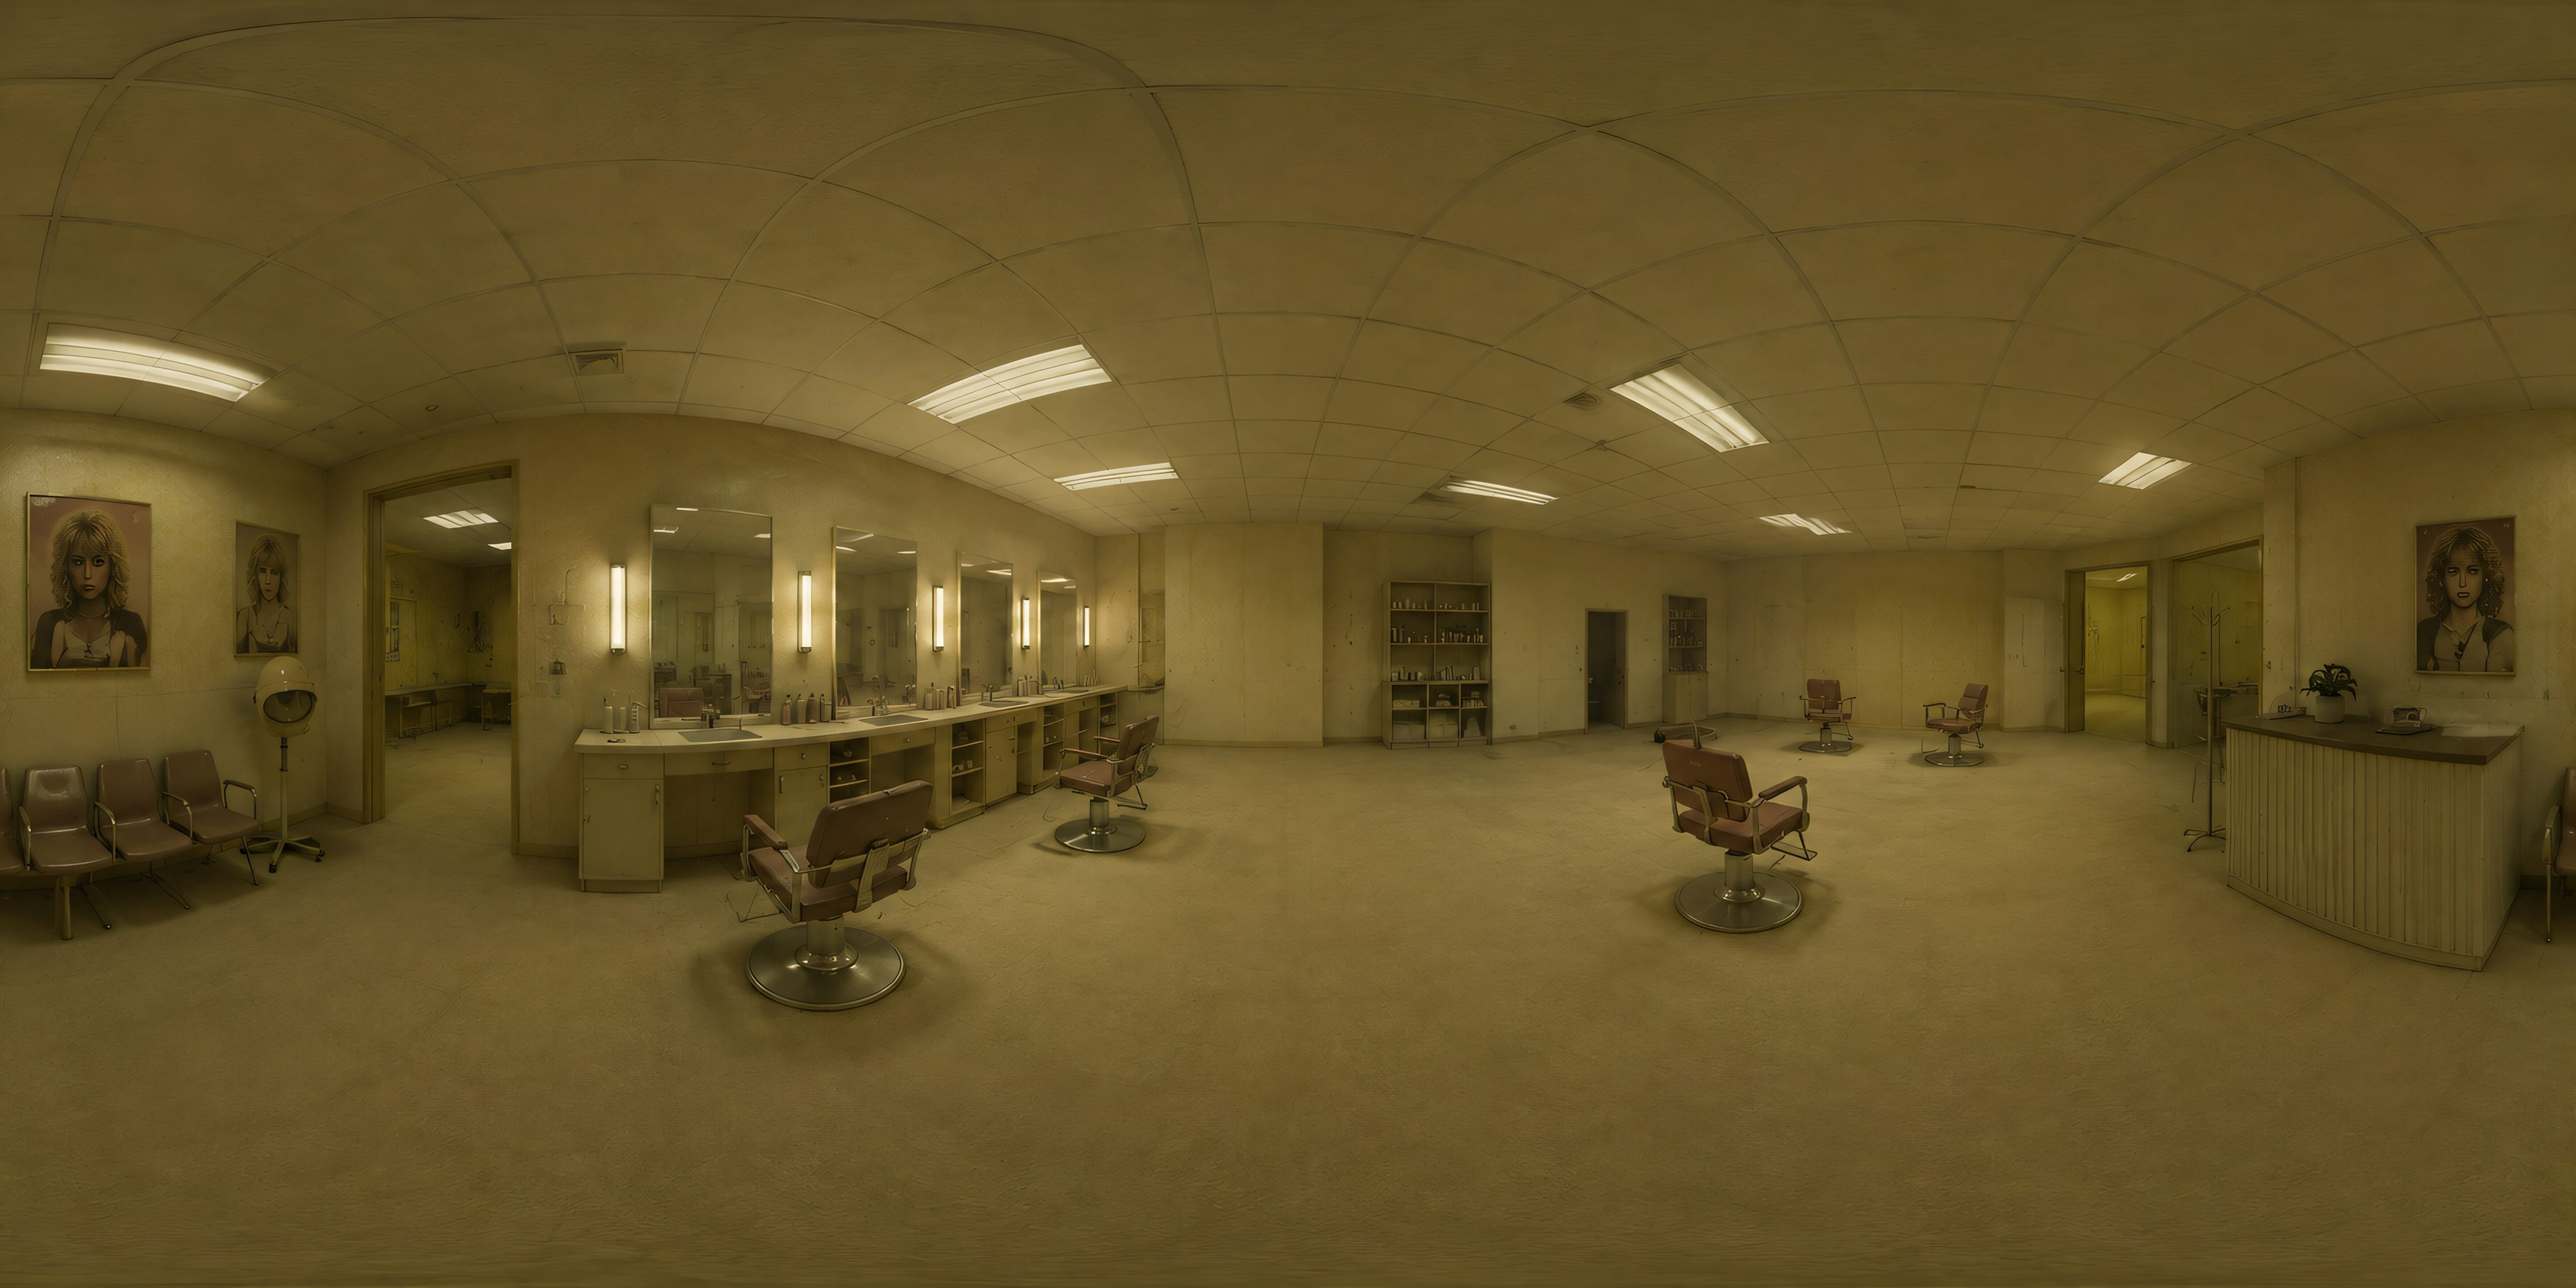
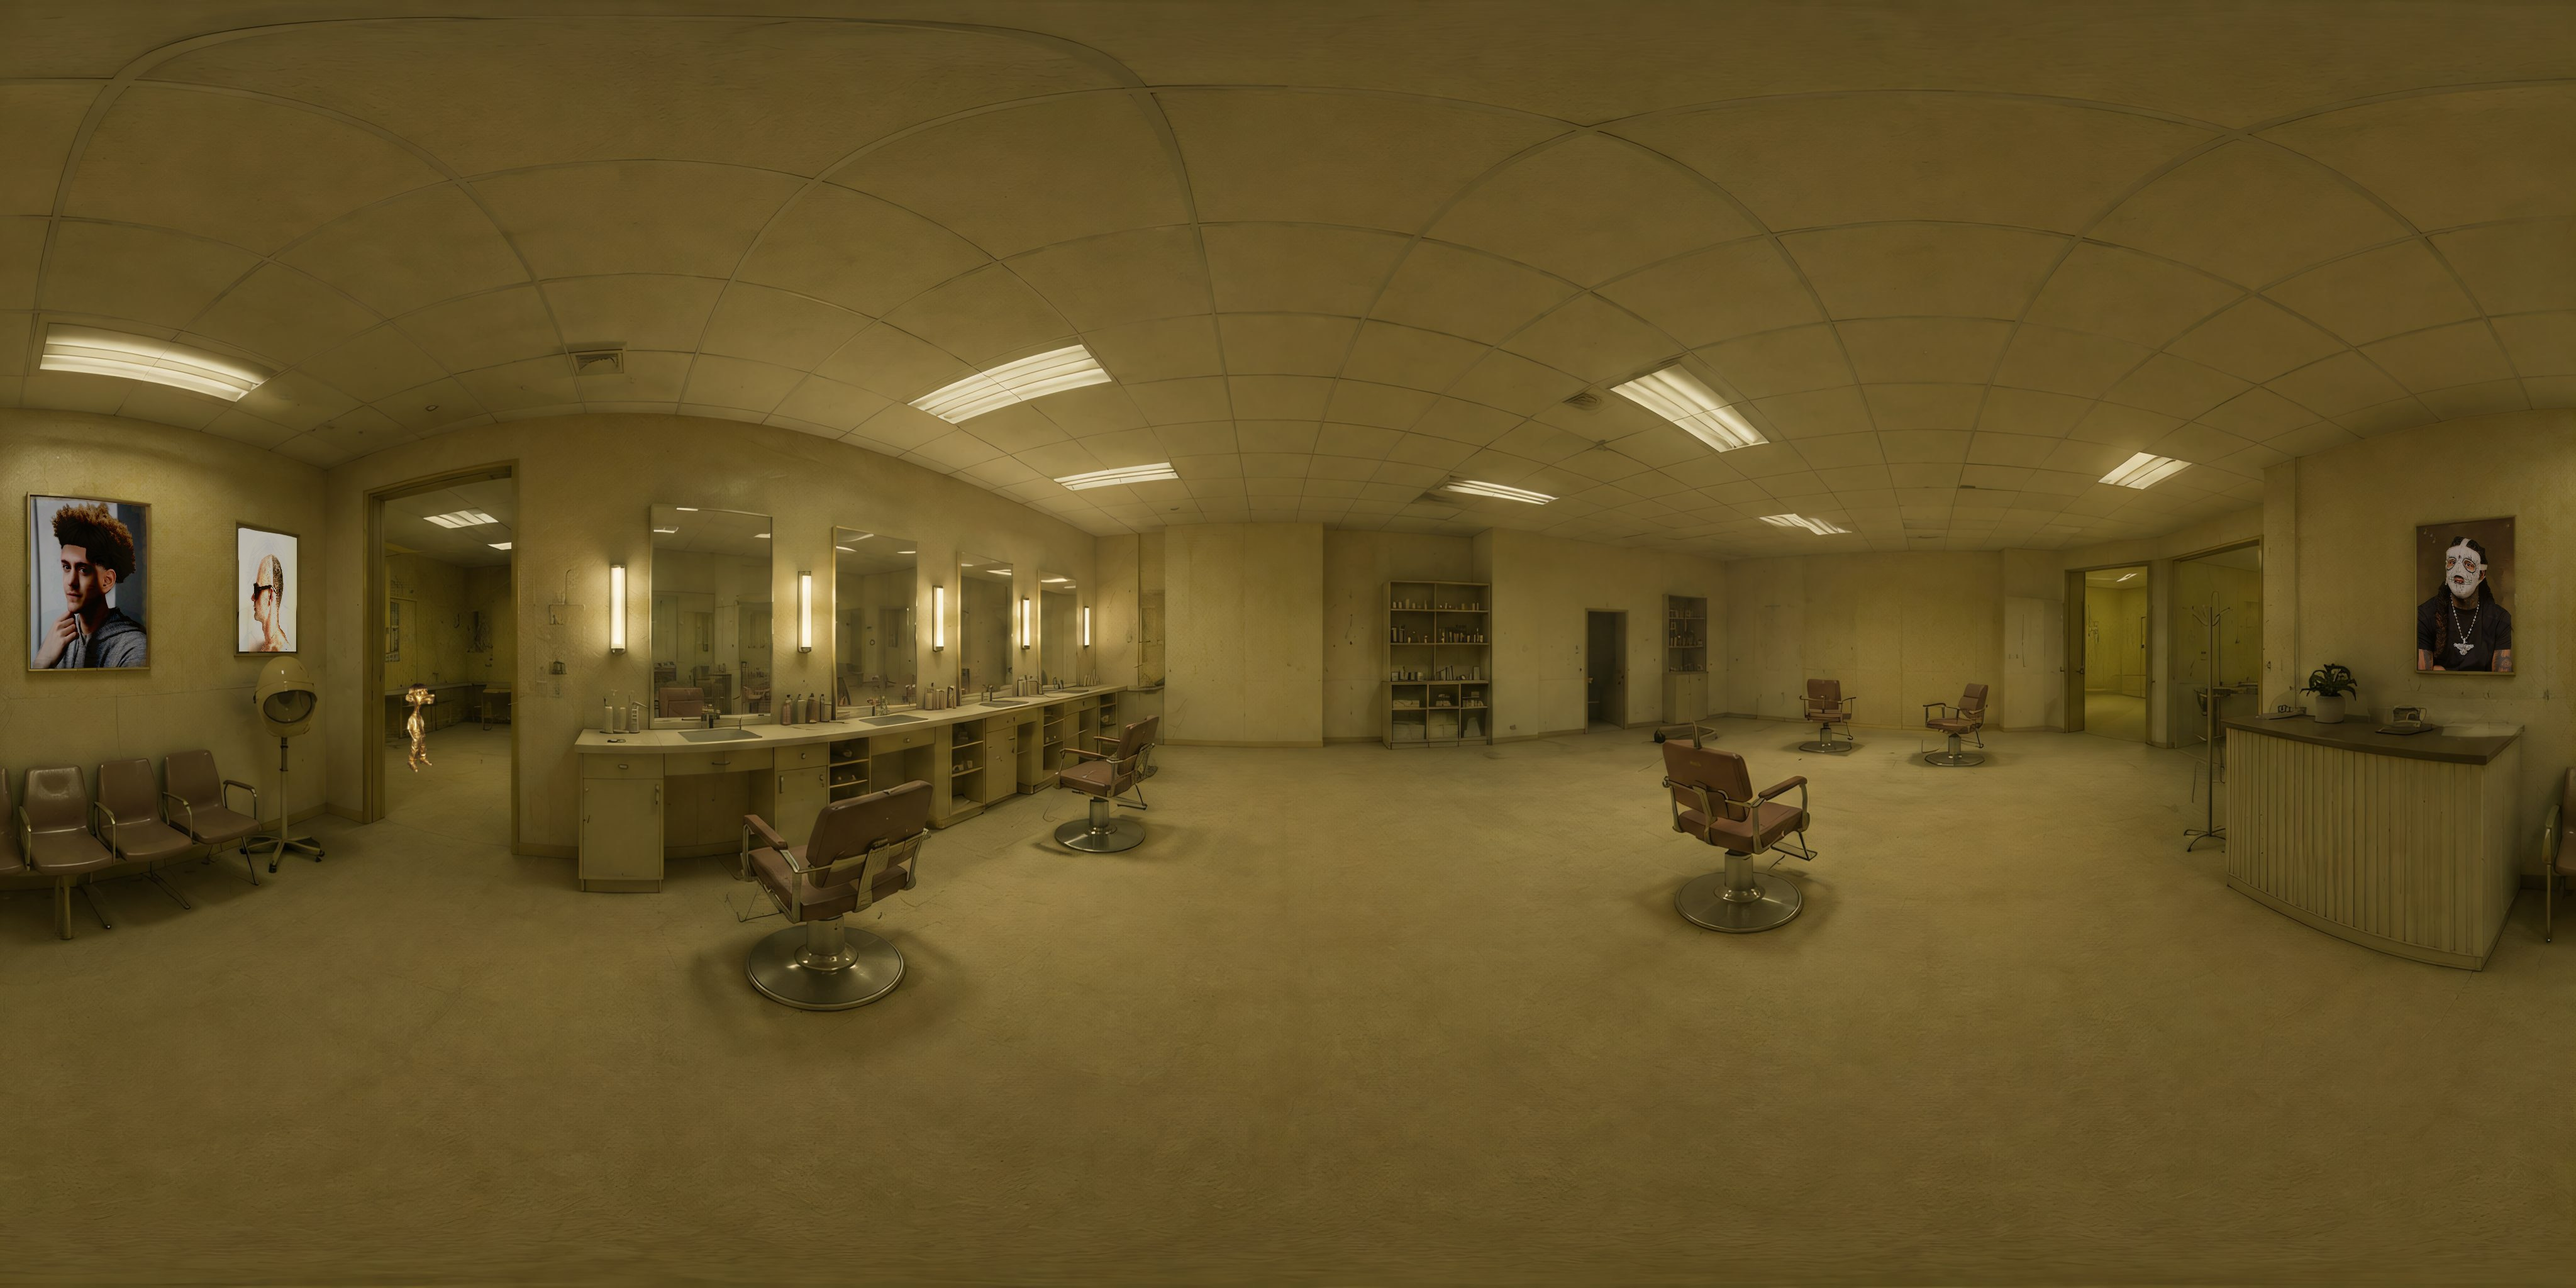
A

diff --git a/lib/panorama/avatarWanderCollisions.ts b/lib/panorama/avatarWanderCollisions.ts
@@ -3,19 +3,12 @@ import {
   triggerAvatarBumpForHotspot,
 } from "@/lib/avatar/avatarWalkHeading";
 import { clampAvatarPitch, maxPitchAmpForBase } from "@/lib/panorama/avatarPitchBounds";
-import {
-  clampDepth,
-  maxDepthAmpForBase,
-} from "@/lib/panorama/avatarDepth";
 
 /** Distance angulaire (degrés) pour déclencher une collision. */
 export const COLLISION_DIST_DEG = 8.5;
 
 /** Écartement immédiat le long de la normale (degrés). */
 export const SEPARATION_PUSH_DEG = 3.4;
-
-/** Poids de la profondeur dans la distance de collision (0–1 → degrés équivalents). */
-export const DEPTH_COLLISION_WEIGHT = 16;
 
 /** Invincibilité après la séquence de bump (secondes). */
 export const COLLISION_INVINCIBILITY_SEC = 2 / 3;
@@ -35,12 +28,8 @@ export type WanderWalker = {
   phaseRate: number;
   /** Amplitude pitch (degrés). */
   pitchAmp: number;
-  /** Profondeur 0 (loin) → 1 (proche). */
+  /** Échelle fixe 0–1 (loin → taille max 100 %), pas d’animation. */
   depth: number;
-  depthBase: number;
-  depthPhase: number;
-  depthPhaseRate: number;
-  depthAmp: number;
   prevYaw: number;
   prevPitch: number;
 };
@@ -75,7 +64,7 @@ function facingToward(dy: number, dp: number): number {
 }
 
 /**
- * Détection 3D (pitch / yaw / profondeur), réaction bras, séparation, demi-tour.
+ * Détection sur pitch / yaw, réaction bras, séparation, demi-tour via `dir`.
  */
 export function resolveAvatarCollisions(
   walkers: WanderWalker[],
@@ -95,15 +84,13 @@ export function resolveAvatarCollisions(
 
       const dy = normalizeYawDelta(b.yaw - a.yaw);
       const dp = b.pitch - a.pitch;
-      const dd = (b.depth - a.depth) * DEPTH_COLLISION_WEIGHT;
-      const dist = Math.hypot(dp, dy * 0.9, dd);
+      const dist = Math.hypot(dp, dy * 0.9);
 
       if (dist >= COLLISION_DIST_DEG) continue;
 
       const inv = dist > 0.001 ? 1 / dist : 1;
       const nx = dy * inv;
       const ny = dp * inv;
-      const nz = dd * inv;
       const push =
         SEPARATION_PUSH_DEG * (1 - dist / COLLISION_DIST_DEG) + 0.8;
 
@@ -111,17 +98,11 @@ export function resolveAvatarCollisions(
       a.pitch = clampAvatarPitch(a.pitch - ny * push);
       a.basePitch = a.pitch;
       a.pitchAmp = maxPitchAmpForBase(a.basePitch, a.pitchAmp);
-      a.depth = clampDepth(a.depth - (nz / DEPTH_COLLISION_WEIGHT) * push * 0.35);
-      a.depthBase = a.depth;
-      a.depthAmp = maxDepthAmpForBase(a.depthBase, a.depthAmp);
 
       b.yaw = wrapWanderYaw(b.yaw + nx * push);
       b.pitch = clampAvatarPitch(b.pitch + ny * push);
       b.basePitch = b.pitch;
       b.pitchAmp = maxPitchAmpForBase(b.basePitch, b.pitchAmp);
-      b.depth = clampDepth(b.depth + (nz / DEPTH_COLLISION_WEIGHT) * push * 0.35);
-      b.depthBase = b.depth;
-      b.depthAmp = maxDepthAmpForBase(b.depthBase, b.depthAmp);
 
       a.dir *= -1;
       b.dir *= -1;

diff --git a/lib/panorama/avatarWanderLoop.ts b/lib/panorama/avatarWanderLoop.ts
@@ -13,10 +13,7 @@ import {
 } from "@/lib/panorama/avatarHotspotElements";
 import { layoutPitchForAvatarHotspot } from "@/lib/panorama/avatarHotspotLayout";
 import { clampAvatarPitch, maxPitchAmpForBase } from "@/lib/panorama/avatarPitchBounds";
-import {
-  clampDepth,
-  maxDepthAmpForBase,
-} from "@/lib/panorama/avatarDepth";
+import { depthFromSeed } from "@/lib/panorama/avatarDepth";
 import { resolveAvatarCollisions, type WanderWalker, clearCollisionPairCooldowns, decayCollisionPairCooldowns, wrapWanderYaw } from "@/lib/panorama/avatarWanderCollisions";
 import {
   getAvatarRuntimeHotspots,
@@ -39,12 +36,6 @@ export const WANDER_PITCH_AMP_MAX = 26;
 export const WANDER_PHASE_RATE_MIN = 0.35;
 export const WANDER_PHASE_RATE_MAX = 0.75;
 
-/** Oscillation de profondeur (0–1) : s’éloigner / se rapprocher. */
-export const WANDER_DEPTH_AMP_MIN = 0.18;
-export const WANDER_DEPTH_AMP_MAX = 0.38;
-export const WANDER_DEPTH_PHASE_RATE_MIN = 0.22;
-export const WANDER_DEPTH_PHASE_RATE_MAX = 0.55;
-
 /** Décalage de basePitch (degrés) pour étaler les Miis déjà en BDD au milieu. */
 const BASE_PITCH_SPREAD = 28;
 
@@ -63,9 +54,6 @@ function normalizeYawDelta(delta: number): number {
 function integrateWalker(w: WanderWalker, dt: number): void {
   w.phase += w.phaseRate * dt;
   w.pitch = clampAvatarPitch(w.basePitch + Math.sin(w.phase) * w.pitchAmp);
-
-  w.depthPhase += w.depthPhaseRate * dt;
-  w.depth = clampDepth(w.depthBase + Math.sin(w.depthPhase) * w.depthAmp);
 
   if (!isAvatarBumping(w.hotspotId)) {
     w.yaw = wrapWanderYaw(w.yaw + w.dir * dt);
@@ -91,12 +79,6 @@ function rebuildWalkers(): void {
       (seed % 6) *
         ((WANDER_PITCH_AMP_MAX - WANDER_PITCH_AMP_MIN) / 5);
 
-    const depthBase = clampDepth(0.18 + ((seed % 9) / 8) * 0.64);
-    const desiredDepthAmp =
-      WANDER_DEPTH_AMP_MIN +
-      (seed % 5) *
-        ((WANDER_DEPTH_AMP_MAX - WANDER_DEPTH_AMP_MIN) / 4);
-
     const walker: WanderWalker = {
       hotspotId: hotspotIdForPlacement(p.id),
       yaw: wrapWanderYaw(p.yaw),
@@ -109,14 +91,7 @@ function rebuildWalkers(): void {
         (seed % 4) *
           ((WANDER_PHASE_RATE_MAX - WANDER_PHASE_RATE_MIN) / 3),
       pitchAmp: maxPitchAmpForBase(basePitch, desiredAmp),
-      depth: depthBase,
-      depthBase,
-      depthPhase: seed * 0.17,
-      depthPhaseRate:
-        WANDER_DEPTH_PHASE_RATE_MIN +
-        (seed % 4) *
-          ((WANDER_DEPTH_PHASE_RATE_MAX - WANDER_DEPTH_PHASE_RATE_MIN) / 3),
-      depthAmp: maxDepthAmpForBase(depthBase, desiredDepthAmp),
+      depth: depthFromSeed(seed),
       prevYaw: wrapWanderYaw(p.yaw),
       prevPitch: basePitch,
     };

diff --git a/lib/panorama/avatarDepth.ts b/lib/panorama/avatarDepth.ts
@@ -1,42 +1,34 @@
 /**
- * Profondeur simulée des Miis dans le salon 360°.
- * 0 = loin (petit), 1 = proche (grand). Illusion de volume 3D.
+ * Échelle fixe des Miis dans le salon 360°.
+ * Attribuée au spawn (pas d’animation se rapprocher / s’éloigner).
+ * 0 = plus petit, 1 = taille max (100 %).
  */
 
 export const DEPTH_MIN = 0;
 export const DEPTH_MAX = 1;
 
-/** Facteur d’échelle CSS à profondeur 0 (loin). */
-export const DEPTH_SCALE_FAR = 0.4;
-/** Facteur d’échelle CSS à profondeur 1 (proche). */
-export const DEPTH_SCALE_NEAR = 1.48;
+/** Facteur d’échelle CSS à « loin » (petit). */
+export const DEPTH_SCALE_FAR = 0.45;
+/** Facteur d’échelle CSS à « proche » — max 100 %. */
+export const DEPTH_SCALE_NEAR = 1;
 
 export function clampDepth(depth: number): number {
   return Math.max(DEPTH_MIN, Math.min(DEPTH_MAX, depth));
 }
 
-/** Convertit une profondeur 0–1 en échelle visuelle (perspective approximative). */
+/** Convertit 0–1 en échelle visuelle (max = 100 %). */
 export function depthToScale(depth: number): number {
   const t = clampDepth(depth);
-  // Courbe un peu plus « optique » : le gain de taille accélère en se rapprochant.
   const eased = t * t * (3 - 2 * t);
   return DEPTH_SCALE_FAR + (DEPTH_SCALE_NEAR - DEPTH_SCALE_FAR) * eased;
 }
 
-/** Empilement : les Miis proches passent devant. */
+/** Empilement : les Miis plus grands passent devant. */
 export function depthToZIndex(depth: number): number {
   return 30 + Math.round(clampDepth(depth) * 50);
 }
 
-export function randomDepth(): number {
-  return 0.2 + Math.random() * 0.6;
-}
-
-/**
- * Amplitude max pour que depthBase ± amp reste dans [0, 1]
- * (évite le collage aux bornes).
- */
-export function maxDepthAmpForBase(base: number, desiredAmp: number): number {
-  const room = Math.min(base - DEPTH_MIN, DEPTH_MAX - base) - 0.02;
-  return Math.max(0.05, Math.min(desiredAmp, room));
+/** Profondeur / échelle initiale stable (dérivée d’un seed). */
+export function depthFromSeed(seed: number): number {
+  return clampDepth(0.2 + ((seed % 9) / 8) * 0.8);
 }
